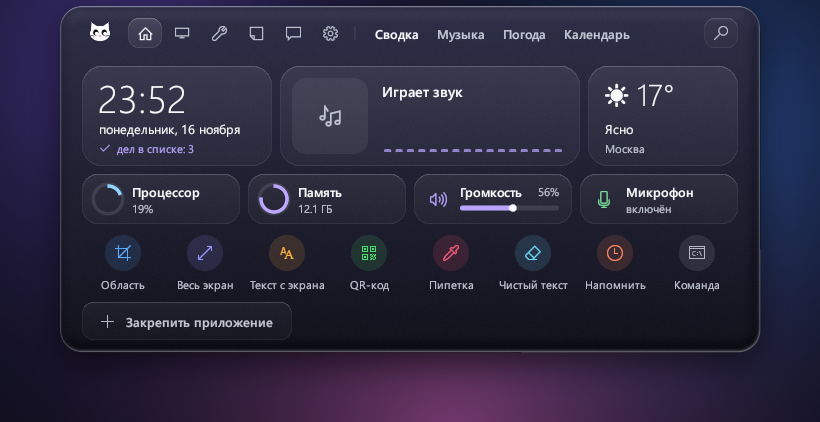
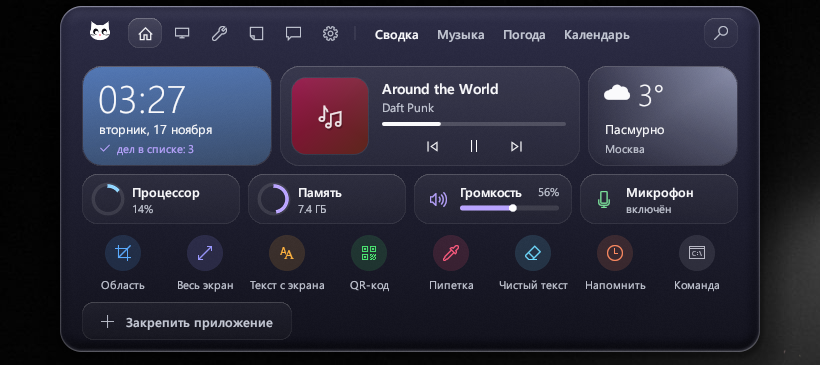
Новый снимок сводки для страницы проекта; демо-трек принимает исполнителя

diff --git a/src/main.rs b/src/main.rs
@@ -1462,7 +1462,7 @@ impl App {
             }
             // проверка вида пилюли без плеера: OSTROVOK_TRACK=«название»
             if let (None, Ok(t)) = (&self.media_now, std::env::var("OSTROVOK_TRACK")) {
-                self.media_now = Some(media::Info { title: media::clean_title(&t), artist: "Исполнитель".into(), playing: true, pos: 64.0, dur: 200.0, at: Instant::now() });
+                self.media_now = Some(media::Info { title: media::clean_title(t.split(" — ").next().unwrap_or(&t)), artist: t.split_once(" — ").map_or("Исполнитель".into(), |p| p.1.to_string()), playing: true, pos: 64.0, dur: 200.0, at: Instant::now() });
             }
             if st.thumb_gen != self.thumb_gen {
                 self.thumb_gen = st.thumb_gen;
